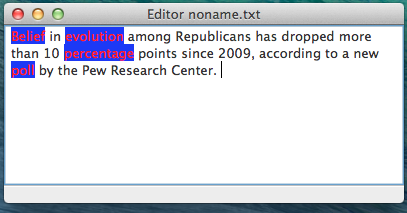
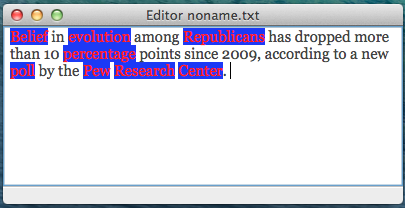
pick up all the nouns

Changed region(s): [[0.0, 0.0, 1.0, 1.0]]

diff --git a/hanshi.py b/hanshi.py
@@ -95,7 +95,7 @@ class MainWindow(wx.Frame):
         d = self.buildIndex(text,pos)
         for i,e in d.items():
           print e
-          if e['pos'] == 'NN':
+          if e['pos'] == 'NNPS' or  e['pos'] == 'NNP' or e['pos'] == 'NN':
             print e['word']
             self.control.SetStyle(e['start'],e['end'], wx.TextAttr("red", "blue"))
 
